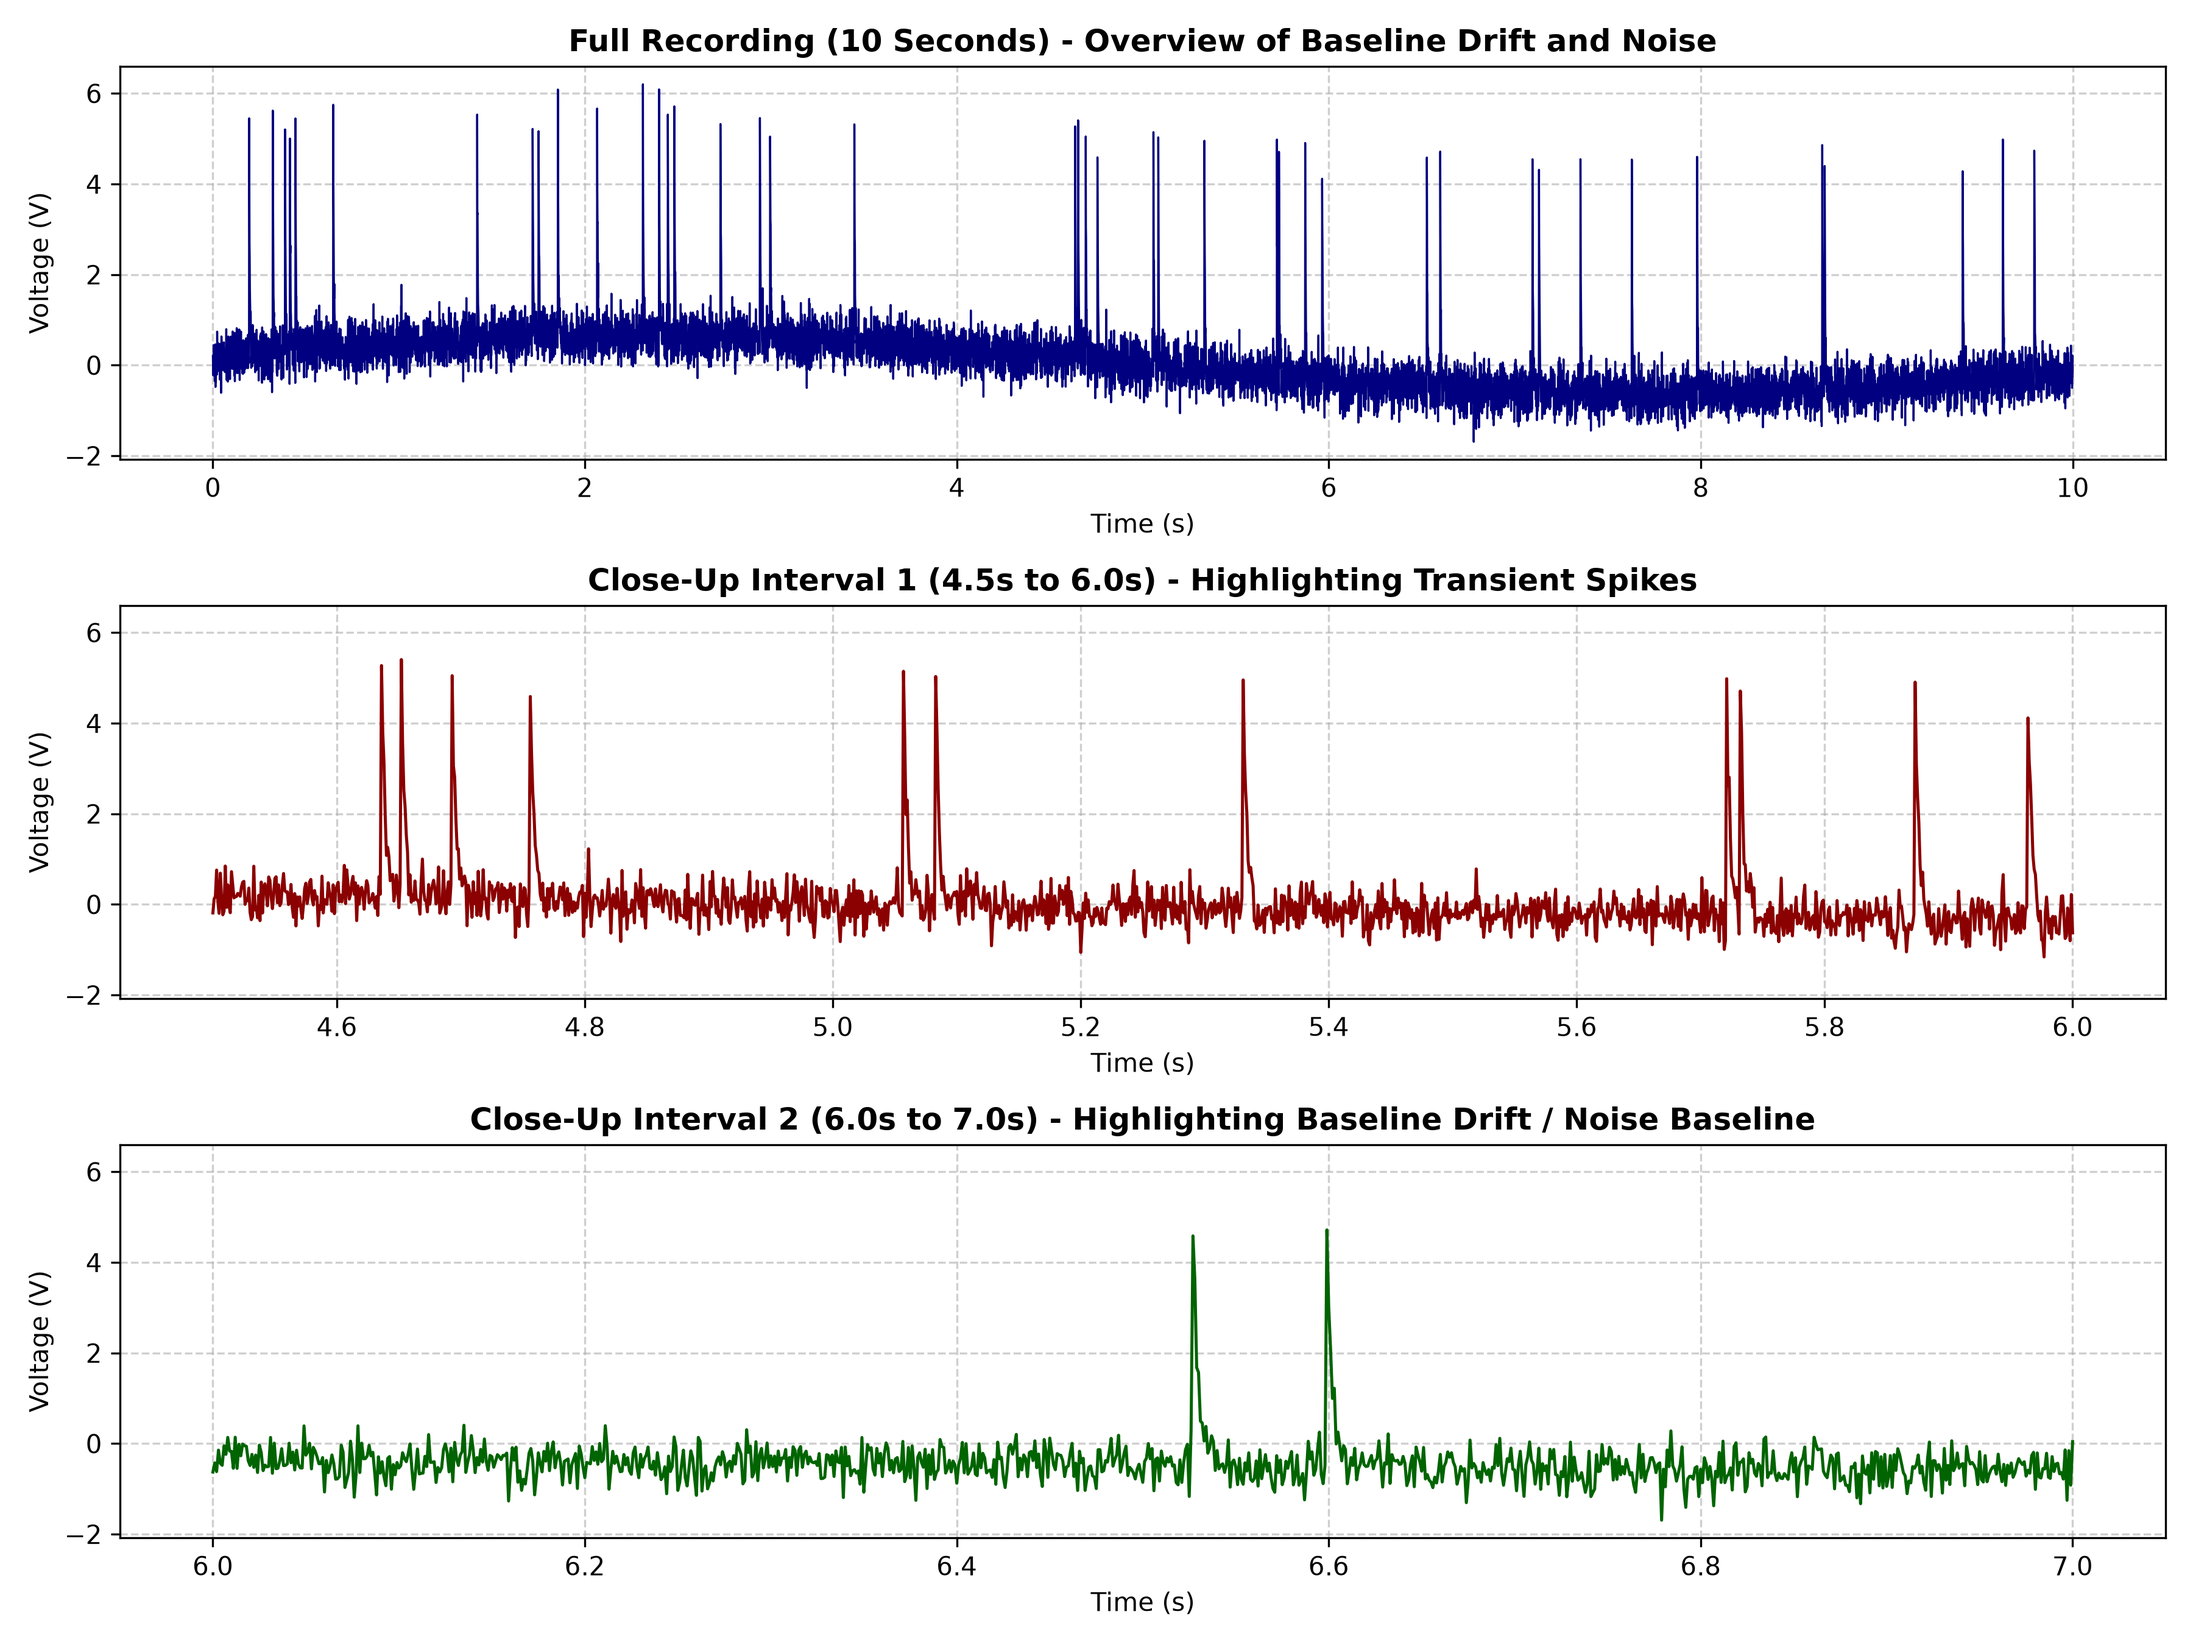
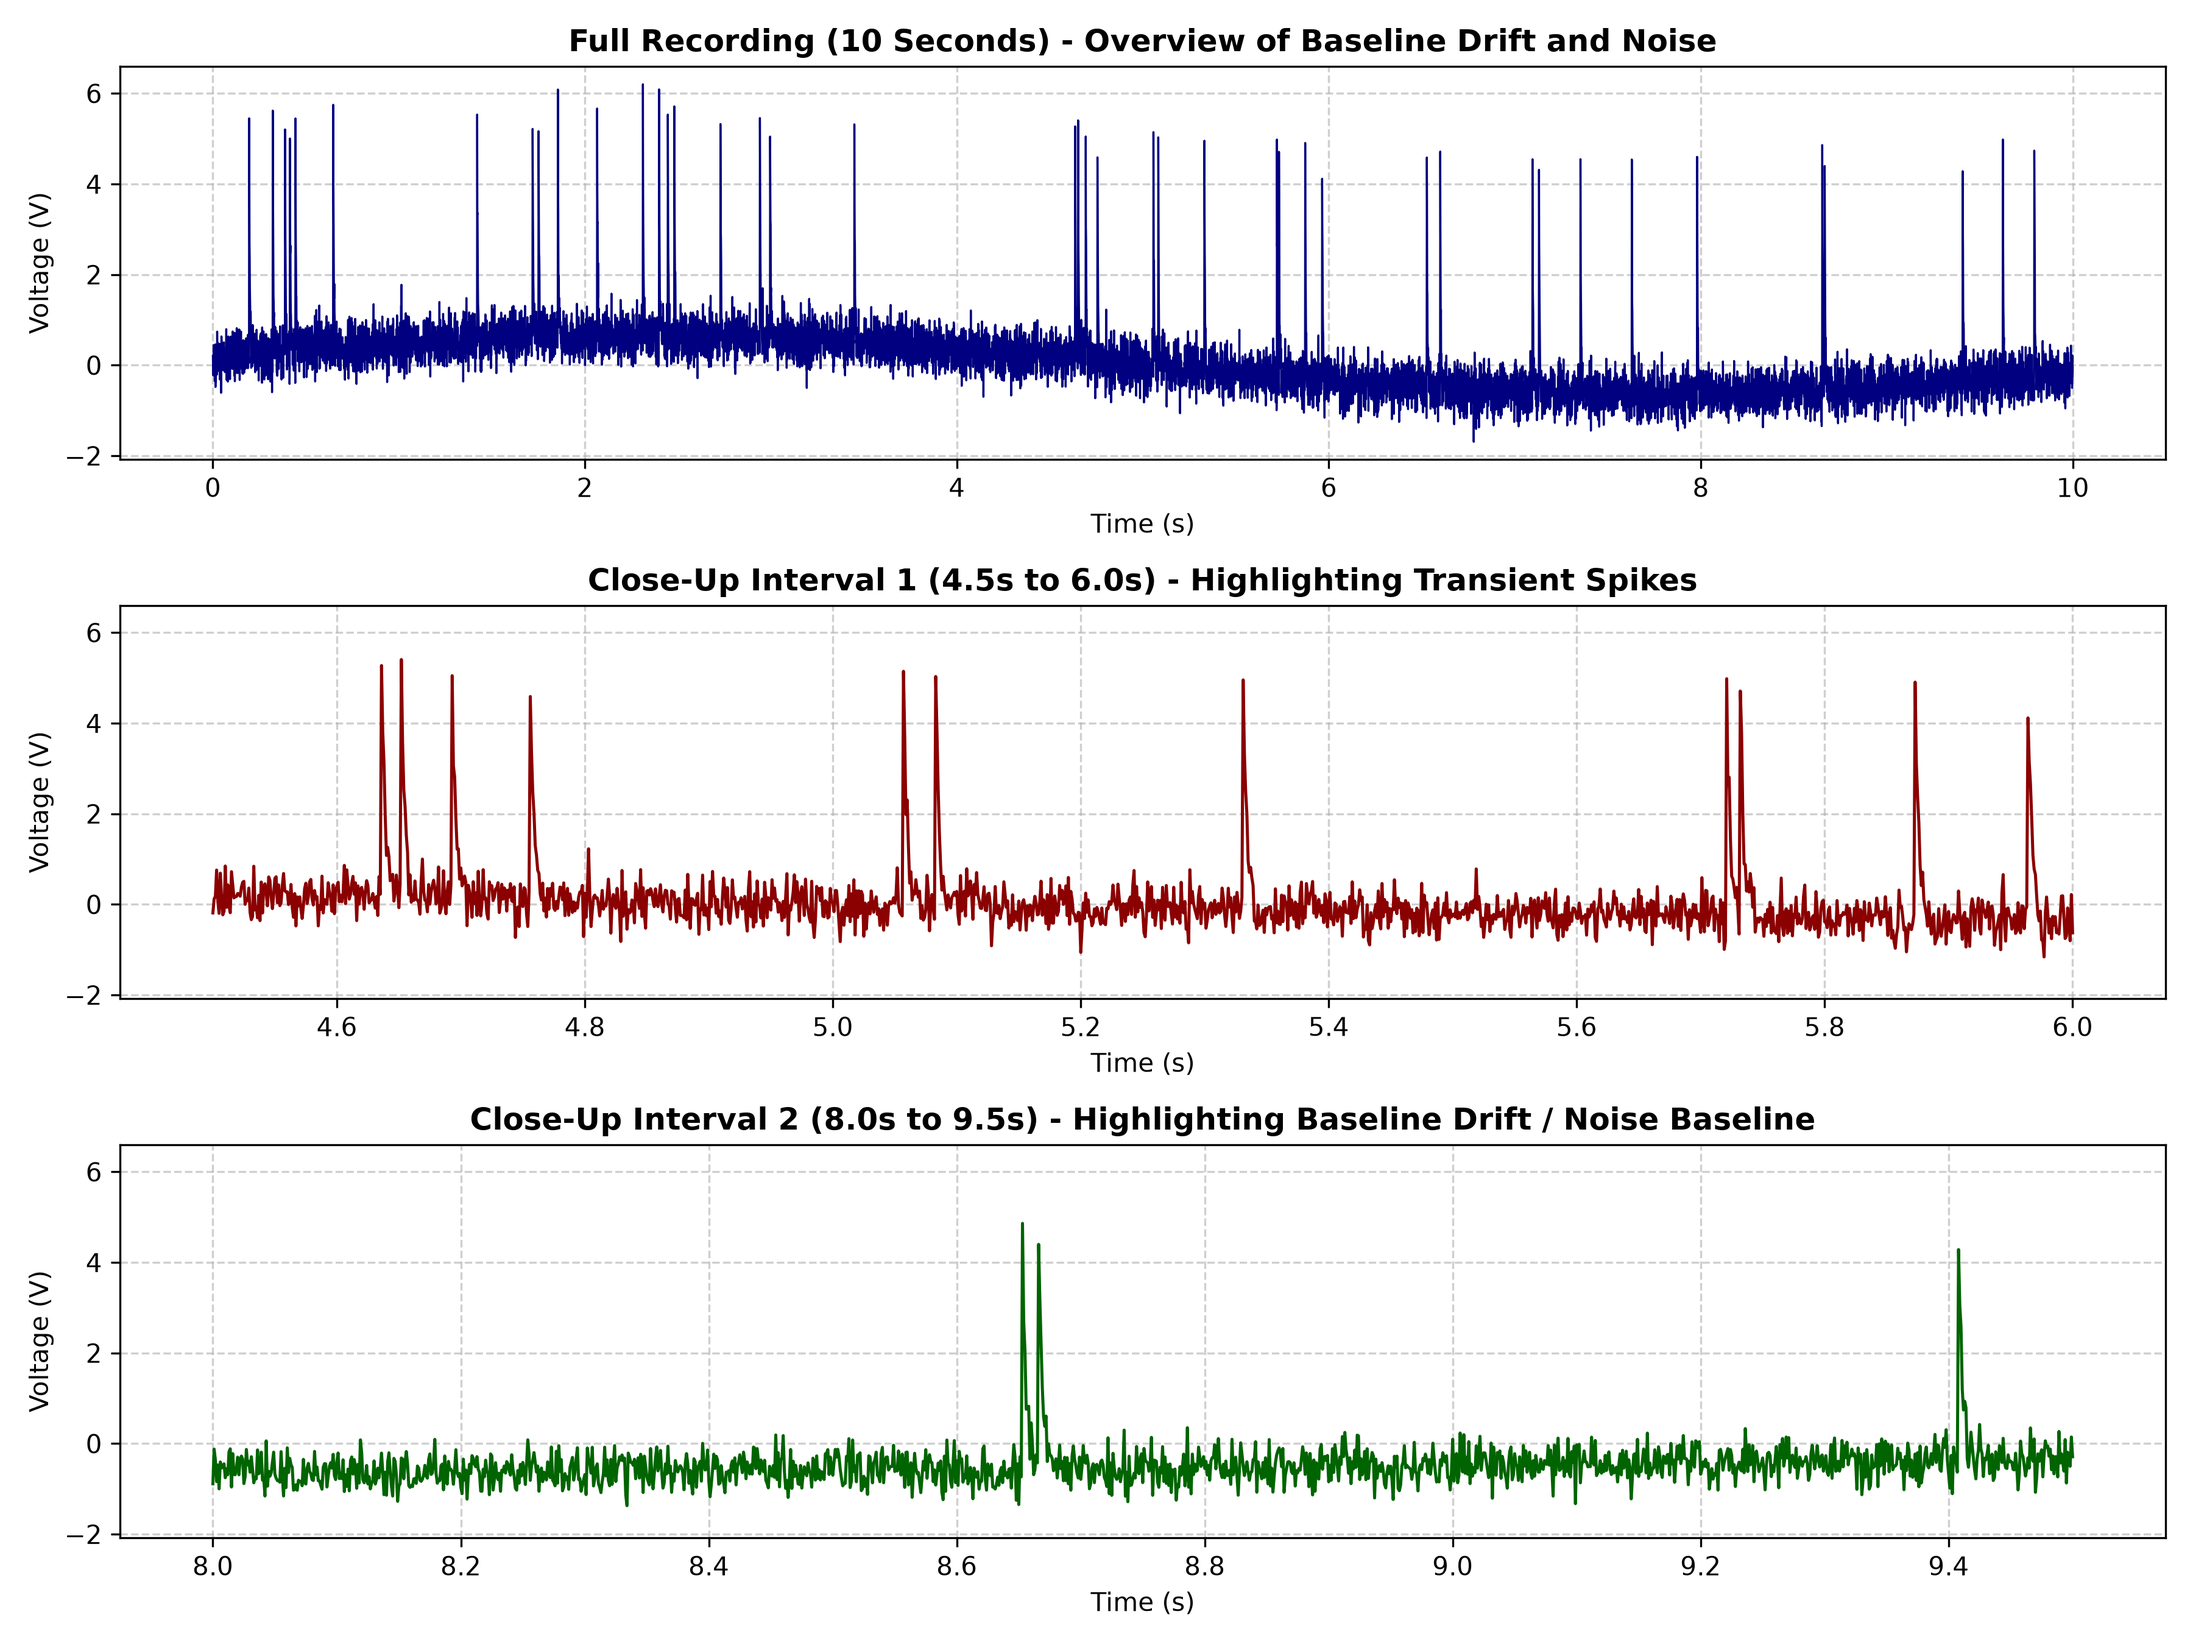
Update Part 2 exploratory interval

Changed region(s): [[0.0933, 0.7778, 0.9644, 0.9333]]

diff --git a/scripts/part2_signal_explore.py b/scripts/part2_signal_explore.py
@@ -43,8 +43,8 @@ axes[1].set_xlabel('Time (s)')
 axes[1].set_ylabel('Voltage (V)')
 axes[1].grid(True, linestyle='--', alpha=0.6)
 
-# Plot 3: Close-up Interval 2 (t = 6.0s to 7.0s)
-t_start2, t_end2 = 6.0, 7.0
+# Plot 3: Close-up Interval 2 (t = 8.0s to 9.5s)
+t_start2, t_end2 = 8.0, 9.5
 mask2 = (t >= t_start2) & (t <= t_end2)
 axes[2].plot(t[mask2], raw_data[mask2], color='darkgreen', linewidth=1.2)
 axes[2].set_title(f'Close-Up Interval 2 ({t_start2}s to {t_end2}s) - Highlighting Baseline Drift / Noise Baseline', fontsize=12, fontweight='bold')
